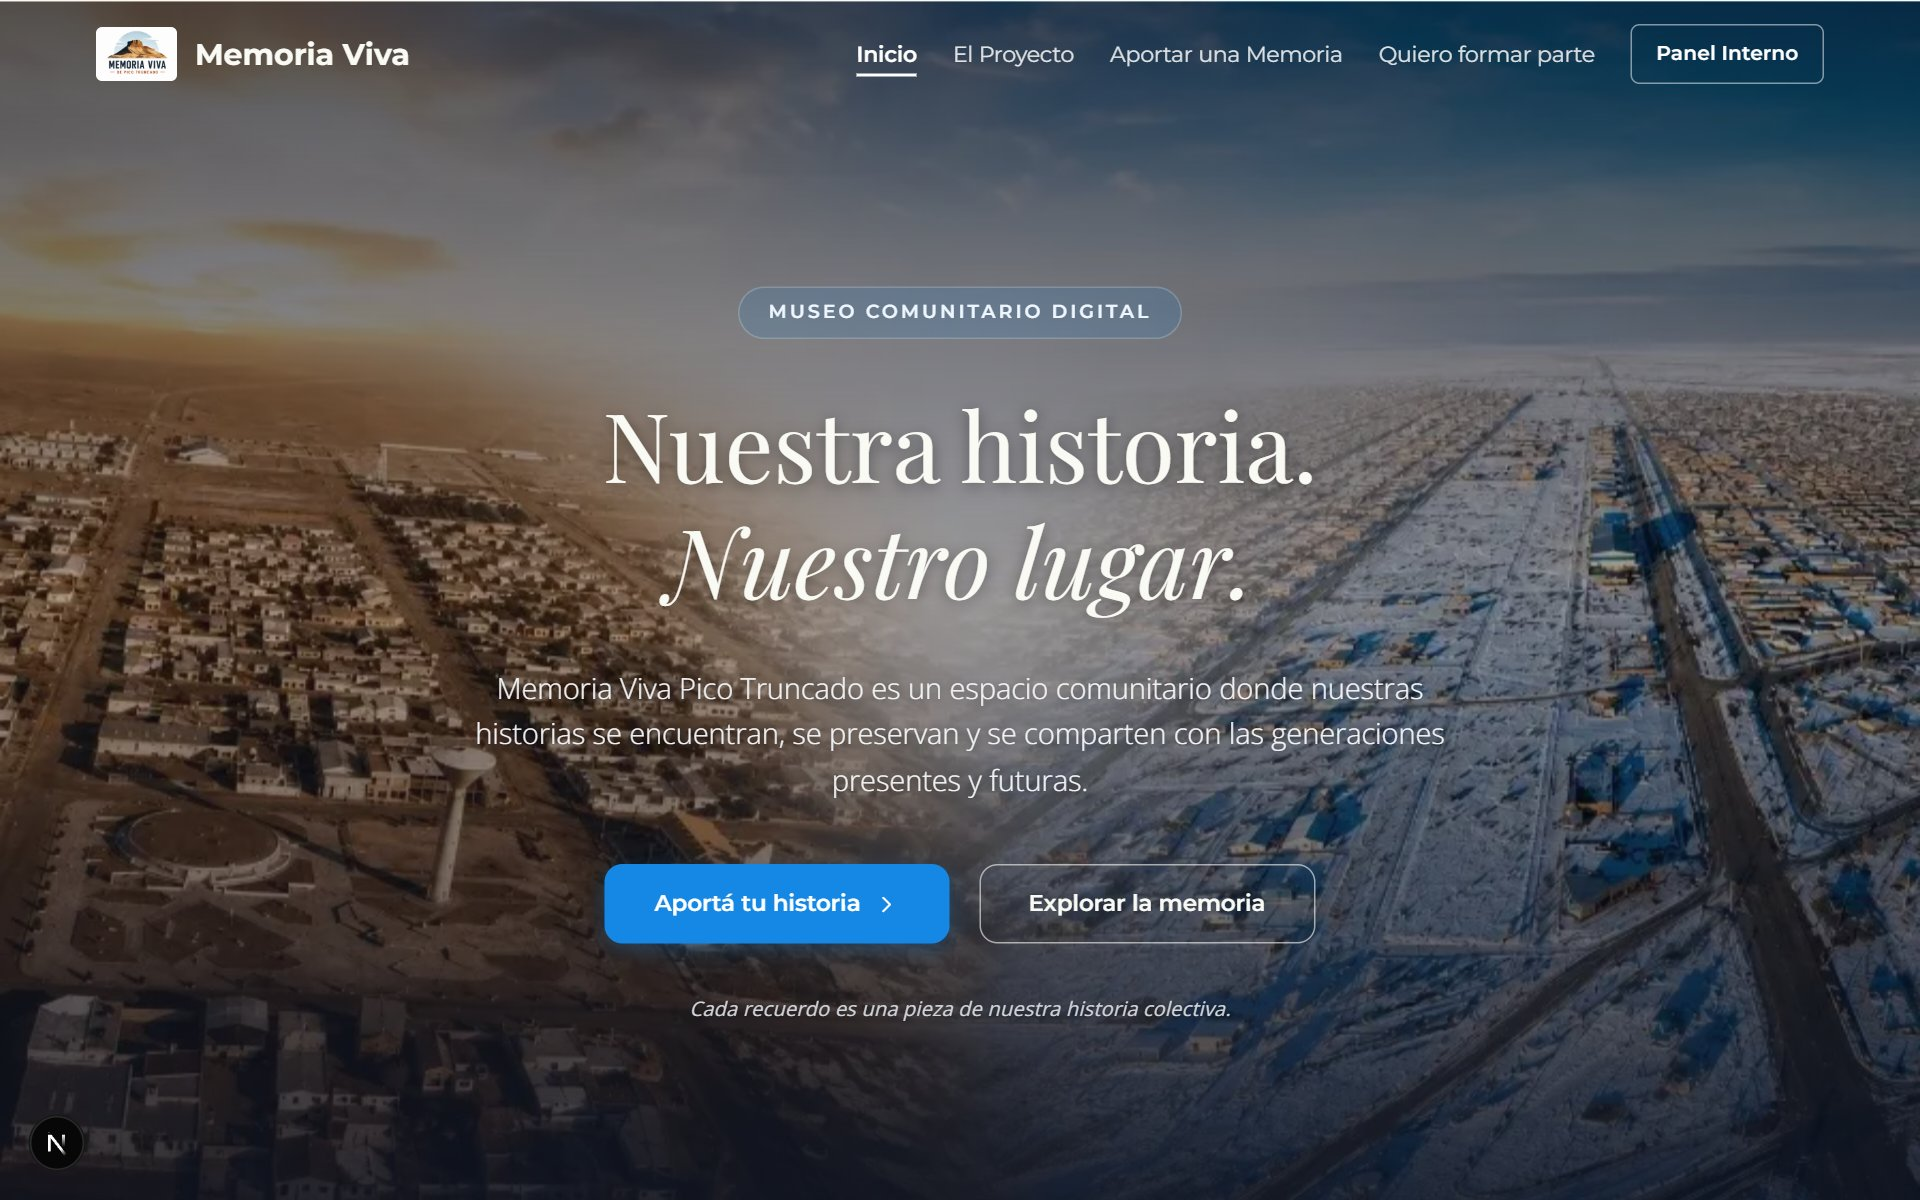
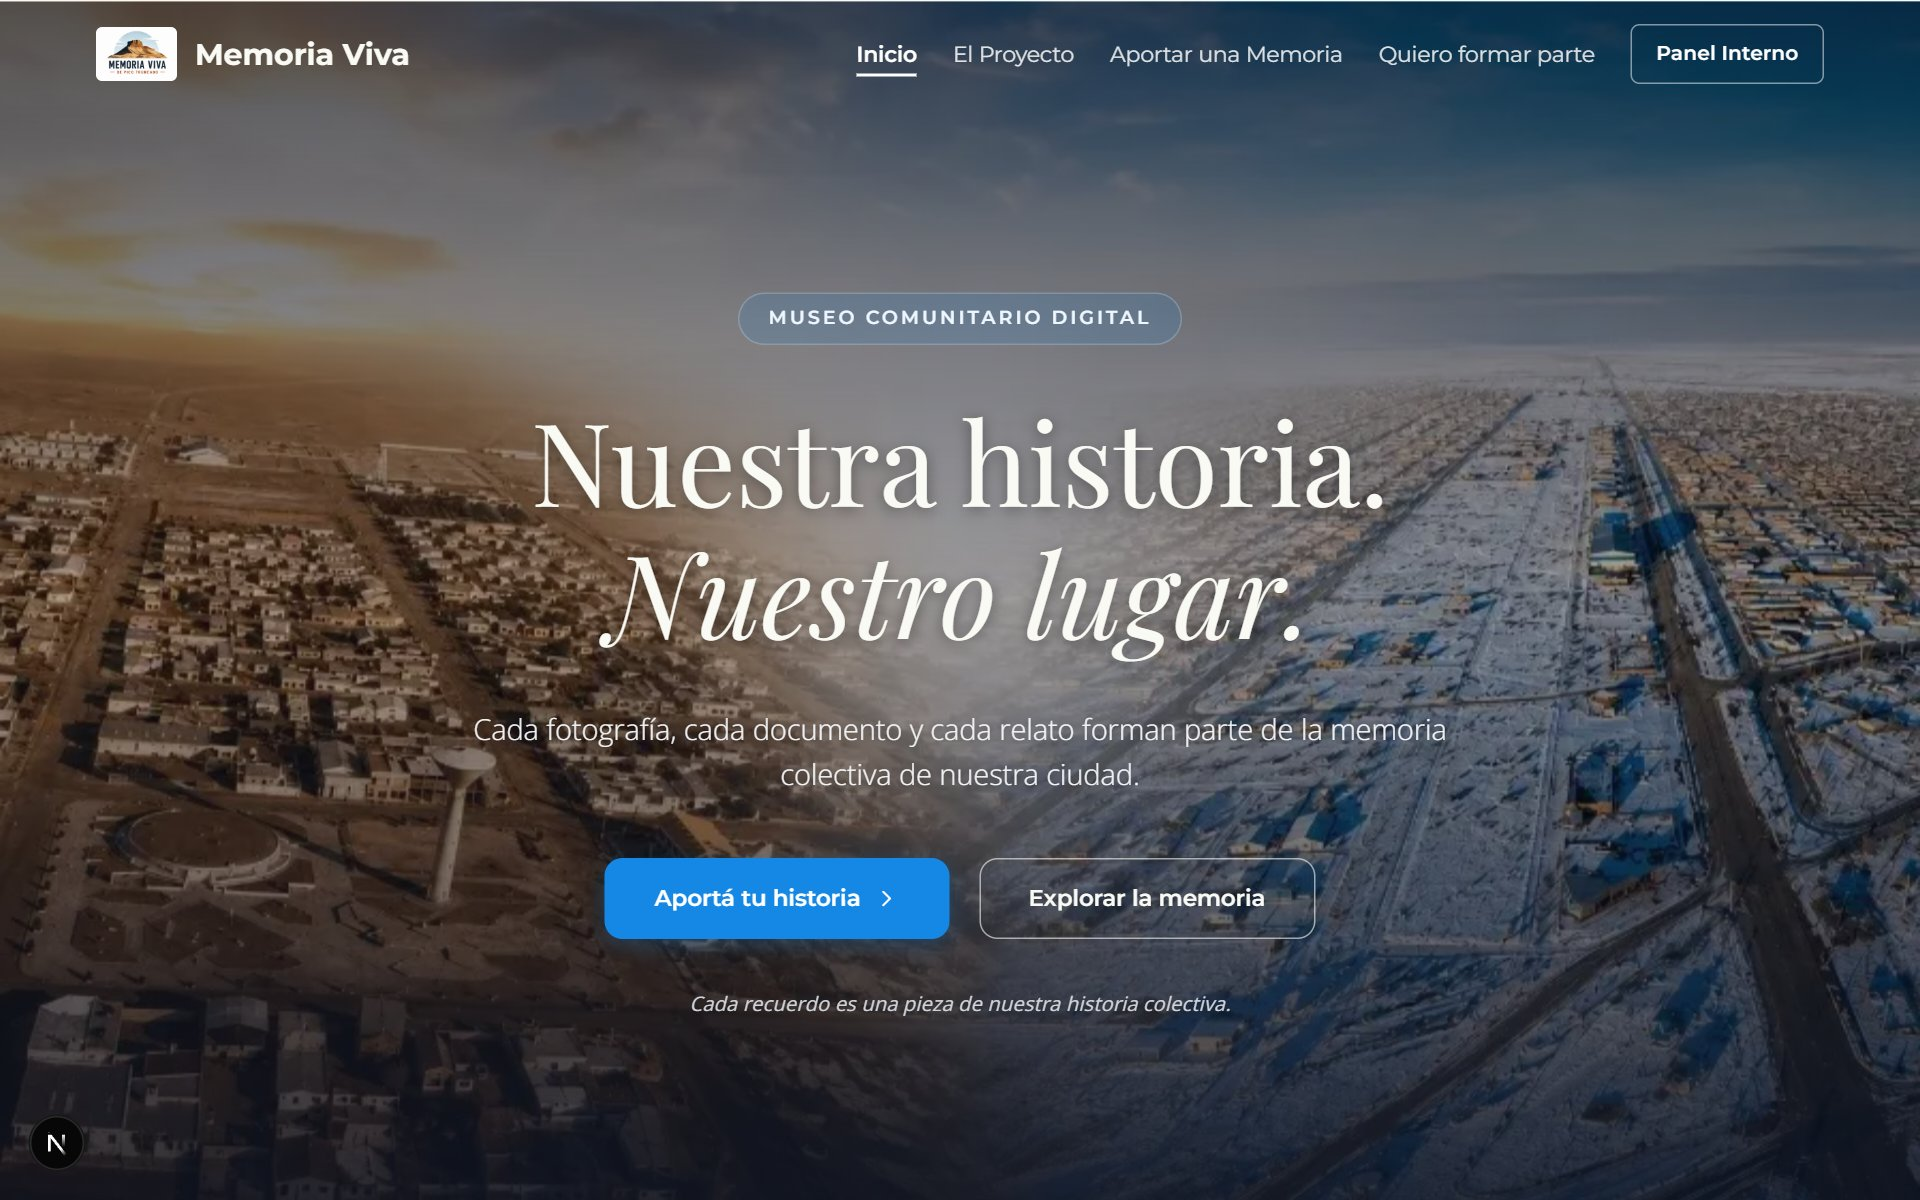
style: increase hero title size, division, and update paragraph intro copy; fix responsive menu clipping at 1280px-1440px

diff --git a/src/app/globals.css b/src/app/globals.css
@@ -708,9 +708,9 @@ p {
 
 .museum-hero-title {
   font-family: var(--font-serif), serif;
-  font-size: clamp(2.25rem, 5vw, 4rem);
+  font-size: clamp(2.7rem, 6vw, 4.8rem); /* Aumentado un 15-20% */
   font-weight: 400;
-  line-height: 1.2;
+  line-height: 1.15;
   color: #FAFAF5;
   margin-bottom: 0.5rem;
   text-shadow: 0 2px 10px rgba(0, 0, 0, 0.4);
@@ -821,6 +821,44 @@ p {
   }
   .hero-image-mobile {
     display: block;
+  }
+}
+
+/* Prevenir desborde del texto de botones generales */
+.btn {
+  white-space: nowrap;
+}
+
+/* Optimización de navegación en pantallas intermedias (1024px, 1280px, 1366px, 1440px) */
+@media (max-width: 1200px) {
+  .site-nav-list {
+    gap: 1rem;
+  }
+  .site-nav-link {
+    font-size: 0.85rem;
+  }
+}
+
+@media (max-width: 1024px) {
+  .site-nav-list {
+    gap: 0.75rem;
+  }
+  .site-nav-link {
+    font-size: 0.8rem;
+  }
+  .site-logo {
+    font-size: 1.15rem;
+    gap: 0.4rem;
+  }
+  .site-logo img {
+    height: 32px !important;
+  }
+}
+
+@media (max-width: 900px) {
+  /* Ocultar el texto del logo en tablets estrechas para evitar colisiones */
+  .site-logo span {
+    display: none;
   }
 }
 

diff --git a/src/app/(public)/components/hero.tsx b/src/app/(public)/components/hero.tsx
@@ -76,11 +76,12 @@ export default function Hero({ title, subtitle }: HeroProps) {
         </span>
 
         <h1 className="museum-hero-title museum-animate museum-delay-2">
-          Nuestra historia. <span>Nuestro lugar.</span>
+          Nuestra historia.<br />
+          <span>Nuestro lugar.</span>
         </h1>
 
         <p className="museum-hero-intro museum-animate museum-delay-2">
-          Memoria Viva Pico Truncado es un espacio comunitario donde nuestras historias se encuentran, se preservan y se comparten con las generaciones presentes y futuras.
+          Cada fotografía, cada documento y cada relato forman parte de la memoria colectiva de nuestra ciudad.
         </p>
 
         <div className="museum-hero-buttons museum-animate museum-delay-3">